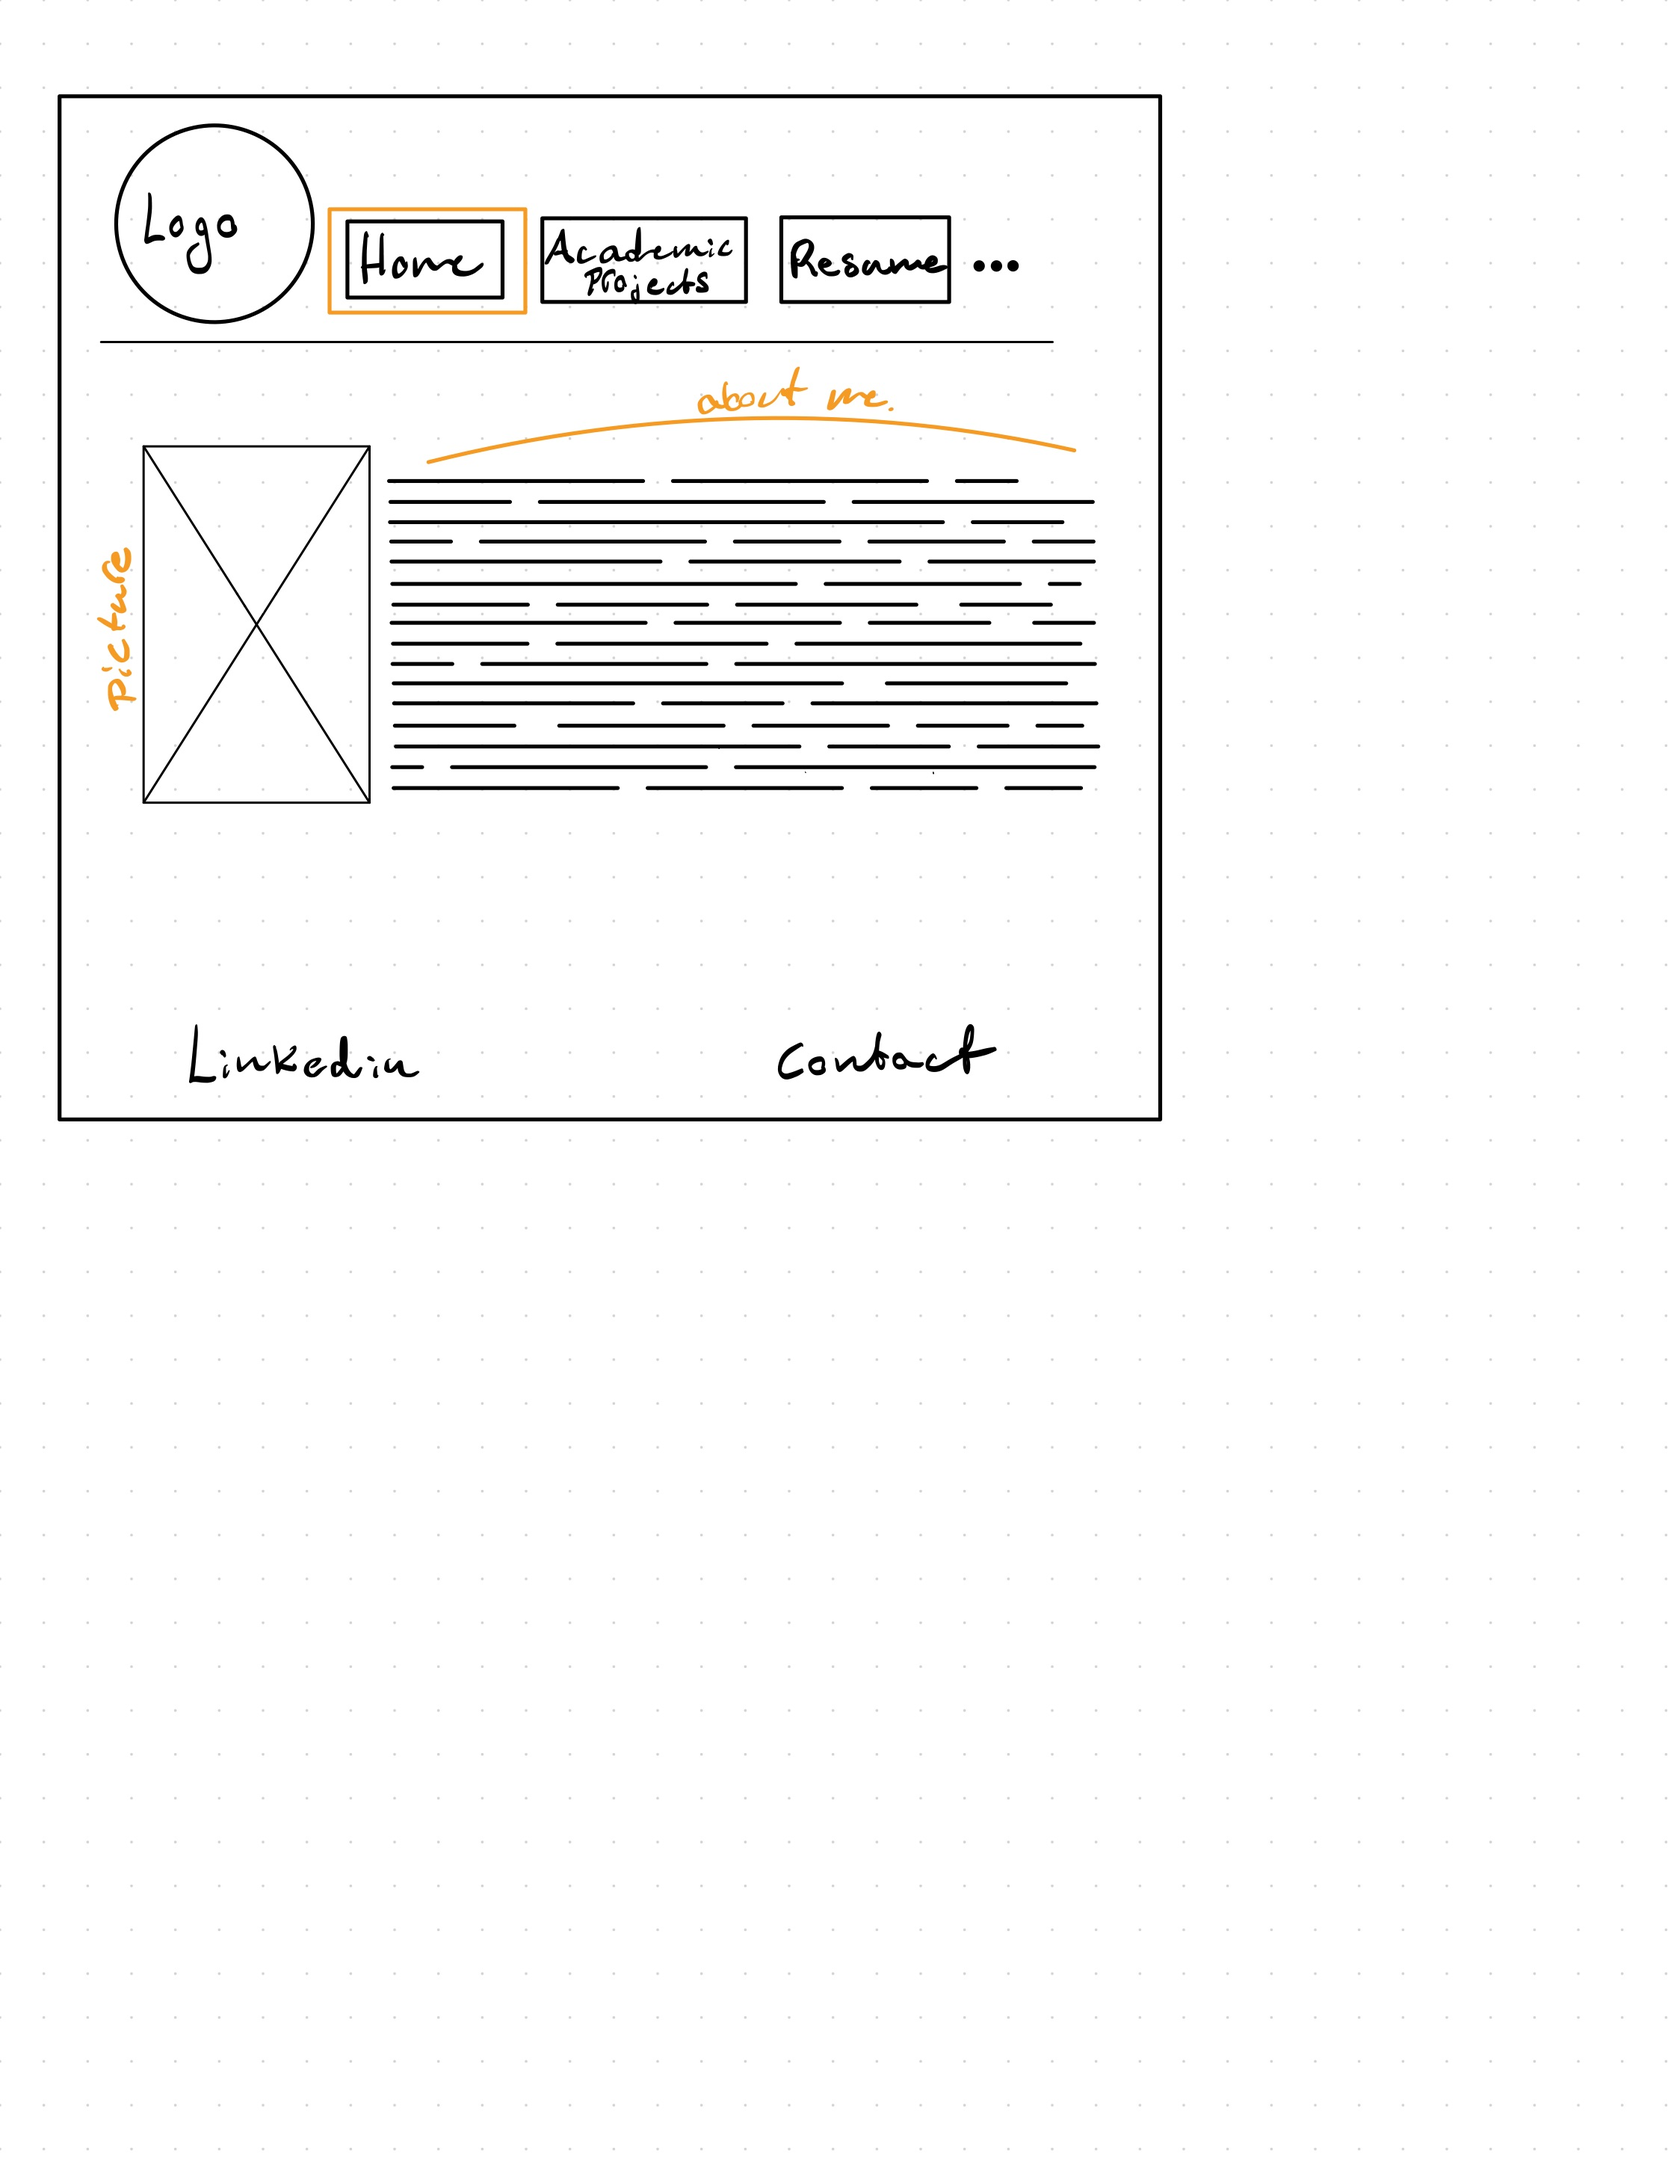
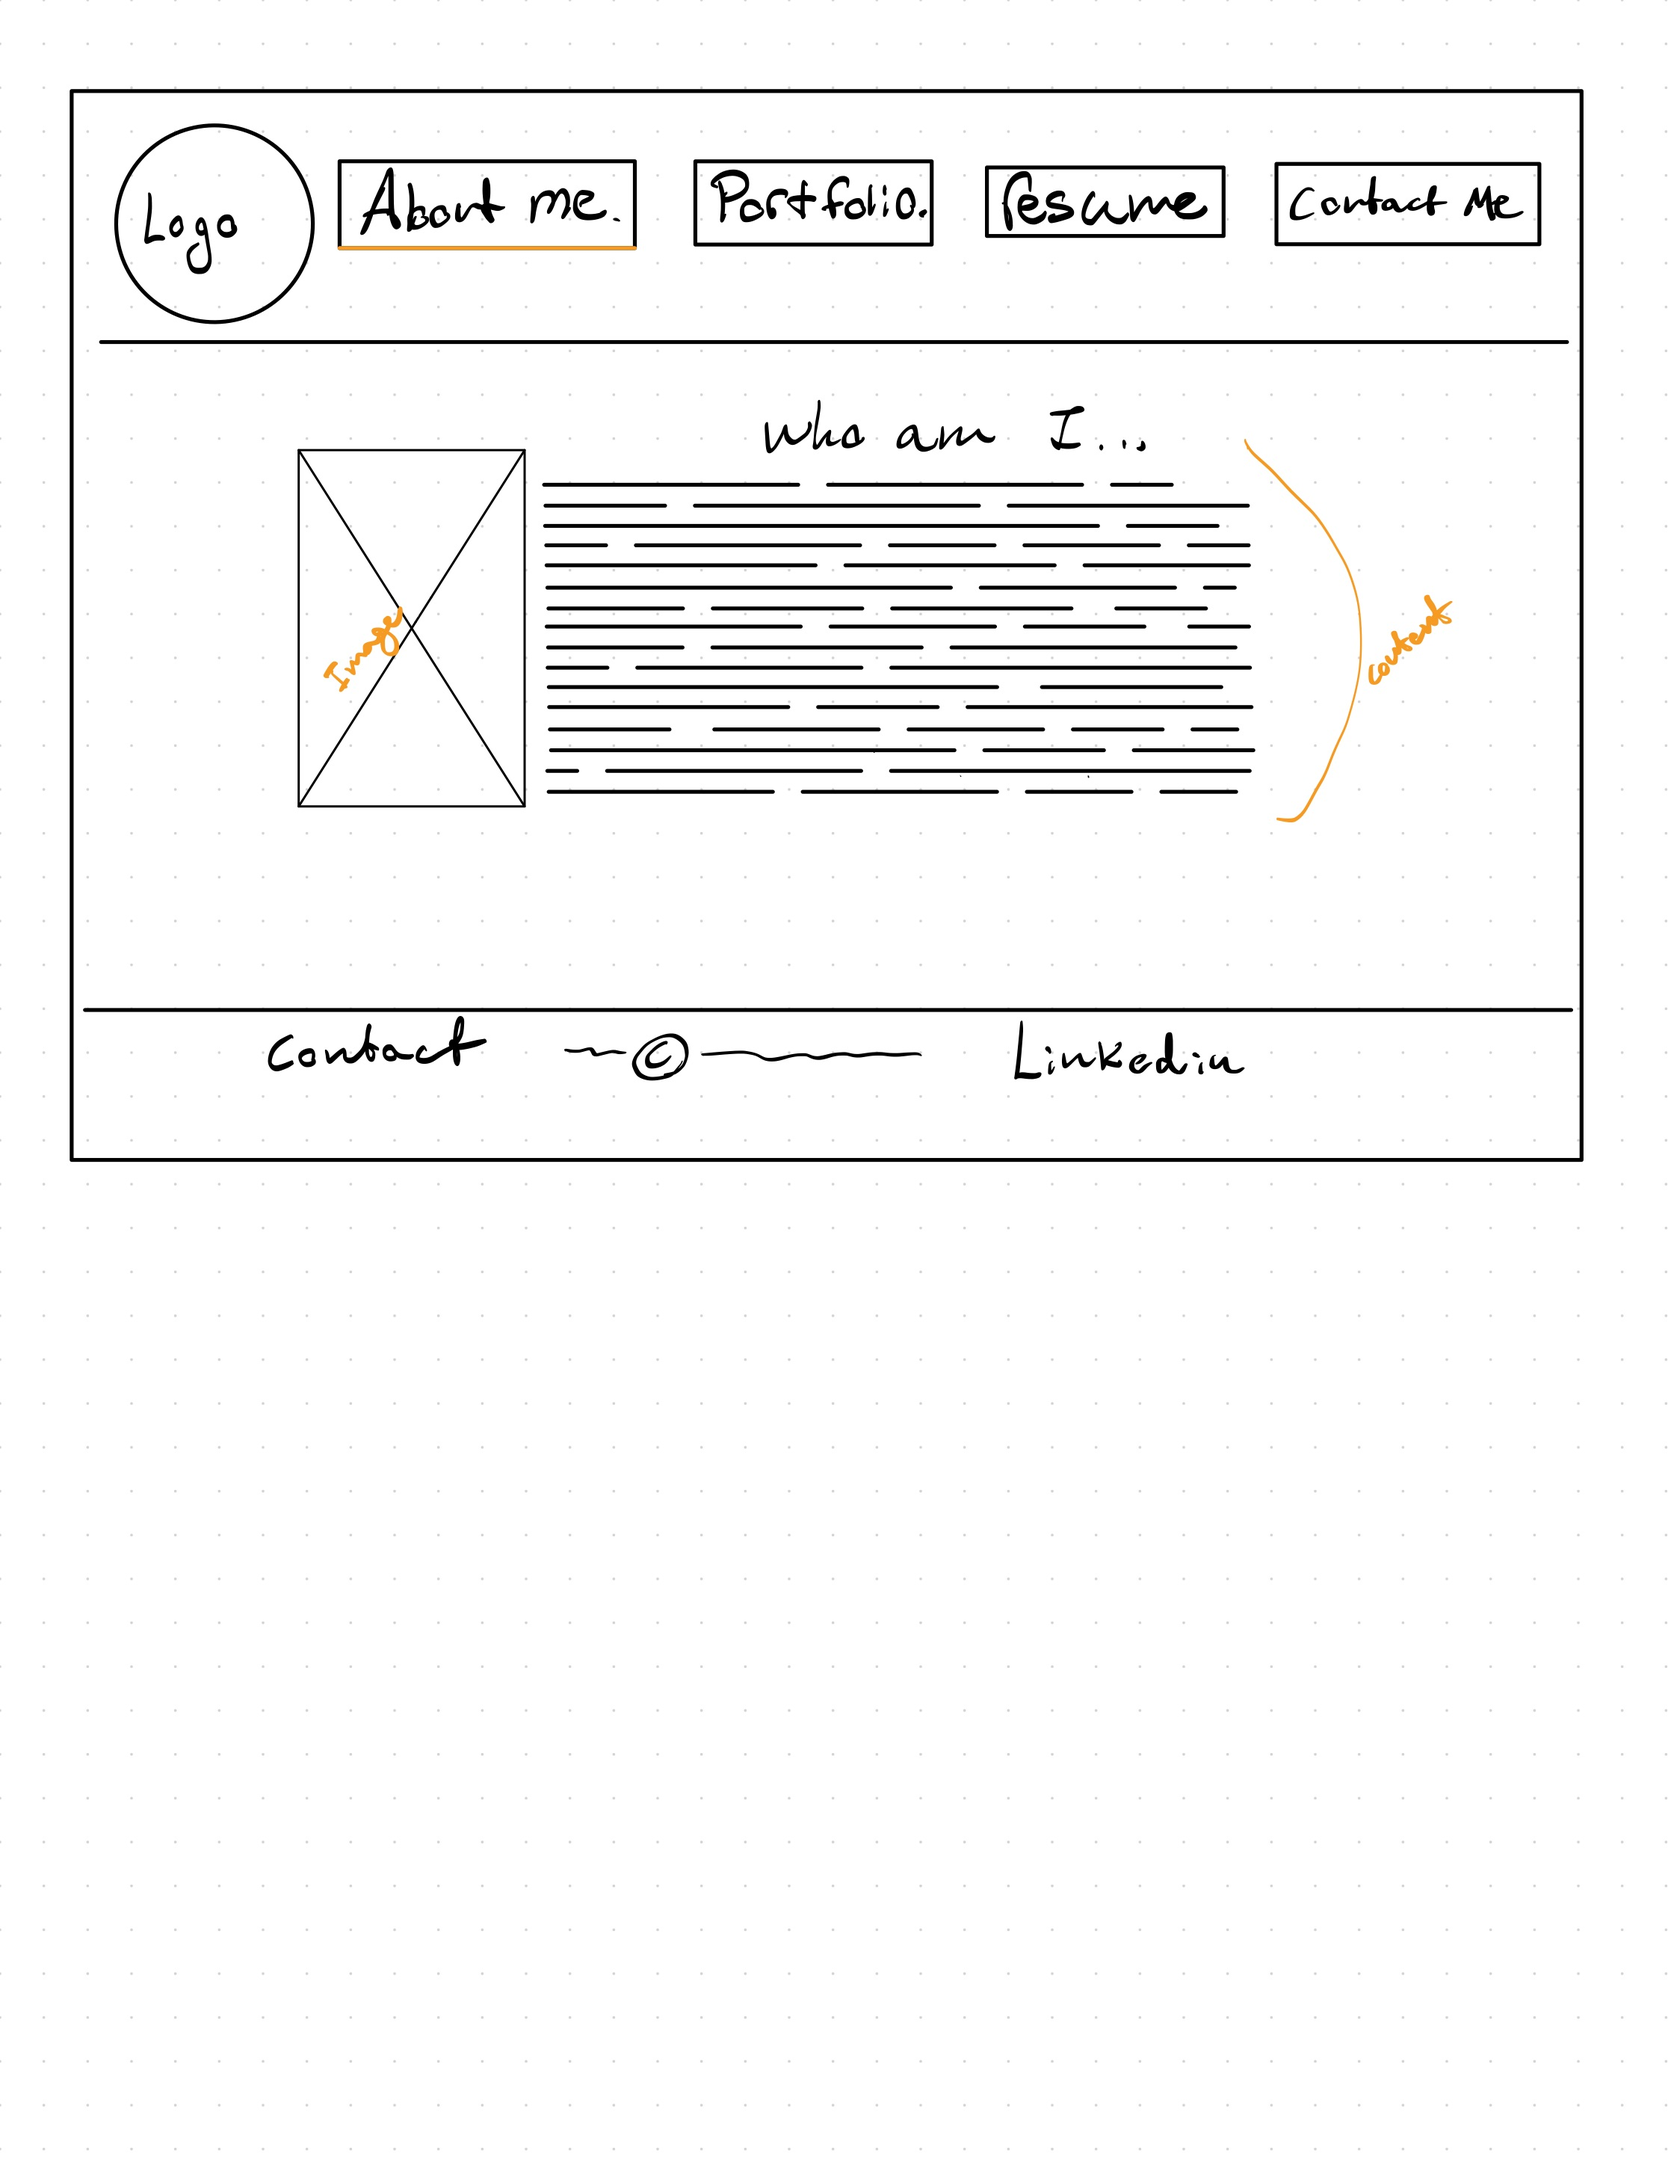
done... happy.

diff --git a/spencer-portfolio/resume.html b/spencer-portfolio/resume.html
@@ -5,67 +5,76 @@
   <meta http-equiv="X-UA-Compatible" content="IE=edge">
   <meta name="viewport" content="width=device-width, initial-scale=1.0">
   <link rel="stylesheet" href="wwr/styles/resume-styles.css">
-  <title>Home</title>
+  <title>Resume - Spencer Knight</title>
 </head>
 <body>
   <div class="page-wrapper">
     <header>
       <div class="logo">
-        <img src="wwr/images/download (1).webp" alt="Logo">
+        <img src="wwr/images/download (1).webp" alt="Spencer Knight Logo">
       </div>
       <nav>
-        <a href="index.html">Home</a>
+        <a href="index.html">About Me</a>
         <a href="portfolio.html">Portfolio</a>
         <a class="active" href="resume.html">Resume</a>
         <a href="contactme.html">Contact Me</a>
       </nav>
     </header>
     <main>
-      <h3>Resume</h3>
-          <h1>Experience:</h1>
+      <h1>Spencer Knight Resume</h1>
+      <section>
+        <h2>Experience</h2>
+        <div class="job">
           <h3>FEBRUARY 2023 – AUGUST 2023</h3>
-          <h3>Inventory Management Specialist, CTDI.</h3>
-         <p>
-           I oversaw $3.5 million worth of fiber construction for rural Kentucky as part of the RDOF project.
-           My responsibilities included conducting daily cycle counts, responding to product support inquiries via email, issuing materials to construction crews, and maintaining records for government review and approval through our contract with Spectrum.
-         </p>
+          <h4>Inventory Management Specialist, CTDI</h4>
+          <p>
+            Oversaw $3.5 million worth of fiber construction for rural Kentucky as part of the RDOF project. Conducted daily cycle counts, responded to product support inquiries via email, issued materials to construction crews, and maintained records for government review and approval through our contract with Spectrum.
+          </p>
+        </div>
+        <div class="job">
           <h3>OCT 2021 – JAN 2023</h3>
-          <h3>Pest Control/ Lawn Care Technician, ATTILA PEST CONTROL.</h3>
+          <h4>Pest Control/ Lawn Care Technician, ATTILA PEST CONTROL</h4>
           <p>
-            I maintained customer satisfaction, performed accurate chemical applications, and provided precise records for the Department of Georgia Agriculture.
-            I also offered technical support to faculty and customers.
+            Maintained customer satisfaction, performed accurate chemical applications, and provided precise records for the Department of Georgia Agriculture. Also offered technical support to faculty and customers.
           </p>
+        </div>
+        <div class="job">
           <h3>NOV 2020 – APR 2021</h3>
-          <h3>IT Service Desk Analyst, BYU IDAHO</h3>
+          <h4>IT Service Desk Analyst, BYU IDAHO</h4>
           <p>
-            My main duty was to solve technological problems for faculty and students.
-            I also maintained records and updated solutions and SOPs.
+            Solved technological problems for faculty and students. Maintained records and updated solutions and SOPs.
           </p>
-          <h1>Education</h1>
+        </div>
+      </section>
+      <section>
+        <h2>Education</h2>
+        <div class="edu">
           <h3>In Progress – Expected Graduation in Fall 2028</h3>
-          <h3>Bachelor’s of Cybersecurity, BYU-Idaho</h3>
+          <h4>Bachelor’s of Cybersecurity, BYU-Idaho</h4>
           <p>
-            I'm pursuing a bachelor's in Cybersecurity and working towards CompTIA's Security+, PenTest, and TCM's Security Practical Network Penetration Tester.
-            I also participated in the BYU-Idaho Cybersecurity Society.
+            Pursuing a bachelor's in Cybersecurity and working towards CompTIA's Security+, PenTest, and TCM's Security Practical Network Penetration Tester. Participated in the BYU-Idaho Cybersecurity Society.
           </p>
+        </div>
+        <div class="edu">
           <h3>MAY 2019</h3>
-          <h3>Advanced Highschool Diploma, CHURCHILL COUNTY HIGH SCHOOL</h3>
+          <h4>Advanced High School Diploma, CHURCHILL COUNTY HIGH SCHOOL</h4>
           <p>
-            I received an accommodation award from the NJROTC program for providing services during a time of need.
-            I was recognized for my volunteer work on the student council committee. Additionally, I earned my Eagle Scout award.
+            Received an accommodation award from the NJROTC program for providing services during a time of need. Recognized for volunteer work on the student council committee. Earned Eagle Scout award.
           </p>
-          <h1>Skills/ Certifications</h1>
-          <p>
-            <ul>
-              <li>Experience in HTML</li>
-              <li>Experience in CSS</li>
-              <li>Experience with Python</li>
-              <li>Experience with Linux</li>
-              <li>Experience with Windows</li>
-              <li>Knowledge of cybersecurity principles and practices</li>
-              <li>Strong problem-solving and analytical skills</li>
-            </ul>
-          </p>
+        </div>
+      </section>
+      <section>
+        <h2>Skills & Certifications</h2>
+        <ul class="skills">
+          <li>Experience in HTML</li>
+          <li>Experience in CSS</li>
+          <li>Experience with Python</li>
+          <li>Experience with Linux</li>
+          <li>Experience with Windows</li>
+          <li>Knowledge of cybersecurity principles and practices</li>
+          <li>Strong problem-solving and analytical skills</li>
+        </ul>
+      </section>
     </main>
     <footer>
       <p><a href="contactme.html">Contact Me</a></p>

diff --git a/spencer-portfolio/wwr/styles/resume-styles.css b/spencer-portfolio/wwr/styles/resume-styles.css
@@ -1,7 +1,75 @@
 @import 'styles.css';
 
+main {
+  max-width: 900px;
+  margin: 2rem auto;
+  padding: 2rem 1rem;
+  background: #fff;
+  border-radius: 1.2rem;
+  box-shadow: 0 2px 16px rgba(120, 135, 139, 0.08);
+}
 
+section {
+  margin-bottom: 2.5rem;
+}
+
+h1 {
+  font-size: 2rem;
+  color: #305252;
+  margin-bottom: 2rem;
+  text-align: center;
+  border-bottom: 2px solid #77878B;
+  padding-bottom: 0.3rem;
+}
+
+h2 {
+  font-size: 1.4rem;
+  color: #305252;
+  margin-top: 2rem;
+  margin-bottom: 1rem;
+  border-bottom: 1px solid #bbb;
+  padding-bottom: 0.2rem;
+}
+
+.job, .edu {
+  margin-bottom: 1.5rem;
+}
+
+h3 {
+  margin: 0.2rem 0 0.1rem 0;
+  color: #305252;
+  font-size: 1.05rem;
+  font-weight: normal;
+}
+
+h4 {
+  margin: 0.1rem 0 0.5rem 0;
+  color: #222;
+  font-size: 1.1rem;
+  font-weight: bold;
+}
+
+.skills {
+  list-style: disc inside;
+  padding-left: 1.2rem;
+  margin: 0.5rem 0 0 0;
+}
+
+.skills li {
+  margin-bottom: 0.4rem;
+  font-size: 1.05rem;
+}
 
 @media (max-width: 600px) {
-    
+  main {
+    padding: 1rem 0.2rem;
+    border-radius: 0.7rem;
+  }
+  h1 {
+    font-size: 1.3rem;
+    padding-bottom: 0.2rem;
+  }
+  h2 {
+    font-size: 1.1rem;
+  }
 }

diff --git a/spencer-portfolio/portfolio.html b/spencer-portfolio/portfolio.html
@@ -14,7 +14,7 @@
         <img src="wwr/images/download (1).webp" alt="Logo">
       </div>
       <nav>
-        <a href="index.html">Home</a>
+        <a href="index.html">About Me</a>
         <a class="active" href="portfolio.html">Portfolio</a>
         <a href="resume.html">Resume</a>
         <a href="contactme.html">Contact Me</a>
@@ -76,6 +76,7 @@
     <span class="img-modal-close">&times;</span>
     <img class="img-modal-content" id="img-modal-img" alt="">
   </div>
+  <!-- I did have to use AI to make this part, but I felt that it added to my website and was important to have.-->
   <script>
     document.querySelectorAll('.project-images-vertical img, .project-images img').forEach(img => {
       img.addEventListener('click', function() {

diff --git a/spencer-portfolio/site-plan.html b/spencer-portfolio/site-plan.html
@@ -287,7 +287,7 @@
       </p>
       <!-- TODO: Week 09 - Add page 2 wireframe here  -->
       <img
-        src="wwr/images/IMG_0199.jpeg"
+        src="wwr/images/Web Fundamentals-8.jpg"
         alt="page 2 wireframe" width="100%"
       />
 
@@ -300,9 +300,11 @@
       </p>
       <!-- TODO: Week 09 - Add page 3 wireframe here -->
       <img
-        src="wwr/images/IMG_0200.jpeg"
+        src="wwr/images/Web Fundamentals-9.jpg"
         alt="page 3 wireframe" width="100%"
       />
+      <h3>Contact Me</h3>
+      <img src="wwr/images/Web Fundamentals-10.jpg" alt="page 3 wireframe">
     </main>
   </body>
 </html>

diff --git a/spencer-portfolio/index.html b/spencer-portfolio/index.html
@@ -14,7 +14,7 @@
         <img src="wwr/images/download (1).webp" alt="Logo">
       </div>
       <nav>
-        <a class="active" href="index.html">Home</a>
+        <a class="active" href="index.html">About Me</a>
         <a href="portfolio.html">Portfolio</a>
         <a href="resume.html">Resume</a>
         <a href="contactme.html">Contact Me</a>

diff --git a/spencer-portfolio/contactme.html b/spencer-portfolio/contactme.html
@@ -14,7 +14,7 @@
         <img src="wwr/images/download (1).webp" alt="Logo">
       </div>
       <nav>
-        <a href="index.html">Home</a>
+        <a href="index.html">About Me</a>
         <a href="portfolio.html">Portfolio</a>
         <a href="resume.html">Resume</a>
         <a class="active" href="contactme.html">Contact Me</a>
